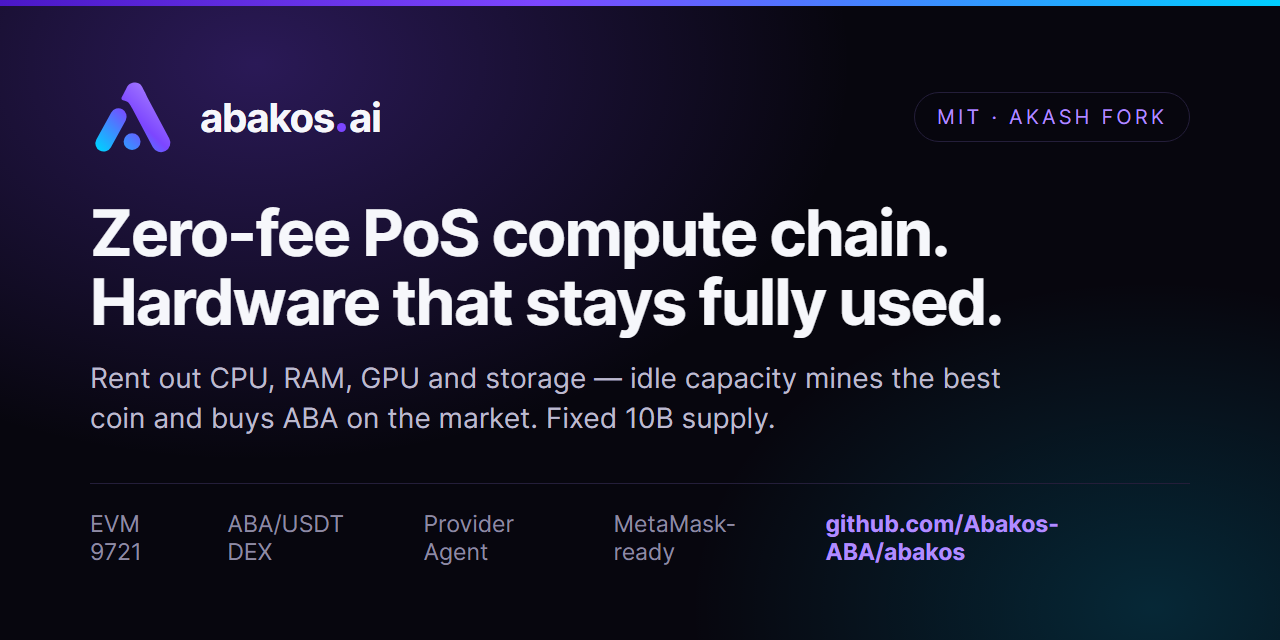
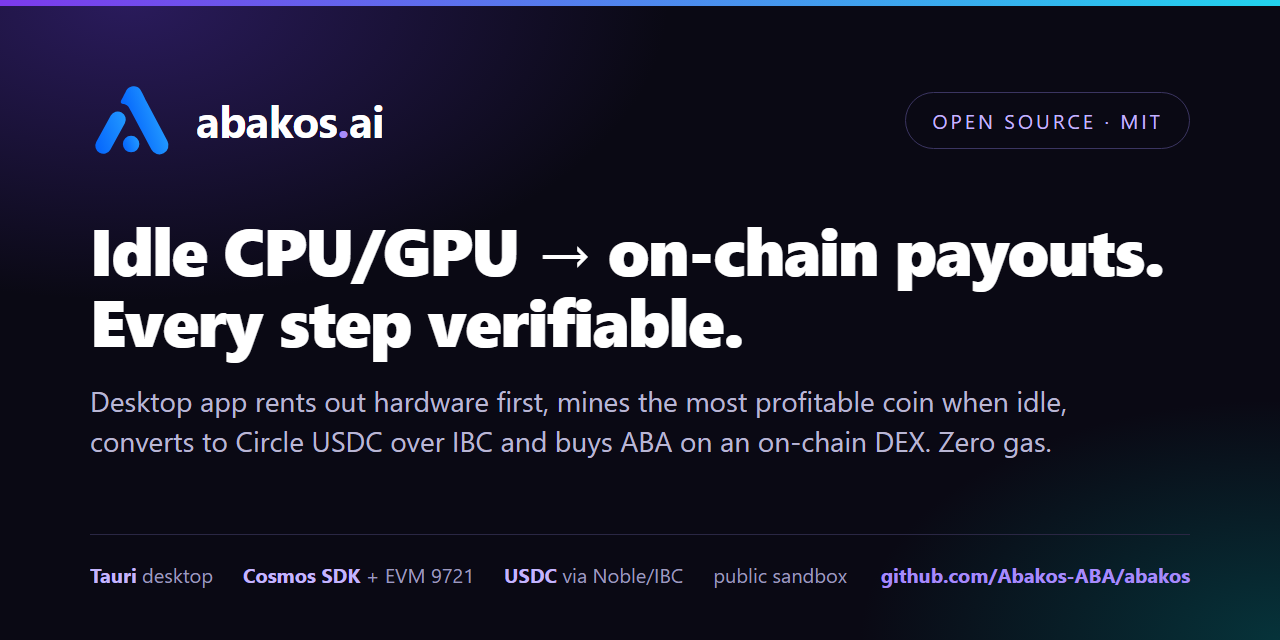
docs: launch polish - roadmap, sandbox notice, v0.1.29 checksums, new social preview, contributing tests

diff --git a/README.md b/README.md
@@ -8,9 +8,12 @@
 [![License](https://img.shields.io/github/license/Abakos-ABA/abakos?color=blue)](LICENSE)
 [![Stars](https://img.shields.io/github/stars/Abakos-ABA/abakos?style=social)](https://github.com/Abakos-ABA/abakos/stargazers)
 
-![Abakos — zero-fee PoS compute chain. Rent out CPU, RAM, GPU and storage; idle capacity mines the best coin and buys ABA on the market.](docs/img/social-preview.png)
+![Abakos — idle CPU/GPU to on-chain payouts. Desktop app rents out hardware first, mines the most profitable coin when idle, converts to Circle USDC over IBC and buys ABA on an on-chain DEX.](docs/img/social-preview.png)
 
-**Abakos turns idle hardware into income.** The desktop app mines the **most profitable coin** on your idle **CPU (Monero/RandomX)** and **GPU** — profit-switching like NiceHash — converts the proceeds into **real Circle USDC** and **buys ABA on the on-chain DEX**, paid straight to your wallet by verified shares. Underneath runs a **zero-fee, EVM-compatible Proof-of-Stake blockchain** for decentralized compute (**DePIN**), forked from the proven [Akash](https://akash.network) stack (Cosmos SDK + CometBFT).
+**Abakos puts idle hardware to work.** The desktop app mines the **most profitable coin** on your idle **CPU (Monero/RandomX)** and **GPU** — profit-switching like NiceHash — converts the proceeds into **real Circle USDC** and **buys ABA on the on-chain DEX**, paid straight to your wallet by verified shares. Underneath runs a **zero-fee, EVM-compatible Proof-of-Stake blockchain** for decentralized compute (**DePIN**), forked from the proven [Akash](https://akash.network) stack (Cosmos SDK + CometBFT).
+
+> [!WARNING]
+> **Public sandbox — experimental.** Payouts, swaps and USDC on the sandbox are real, but the network is pre-audit and pre-mainnet. **Only use amounts you can afford to lose.** No airdrop, no yield promise — mining on an ordinary PC earns small amounts.
 
 > **Name** from the Greek *ábax / abakos* (abacus, the oldest computing device). **Ticker `ABA`.** Live at **[abakos.ai](https://abakos.ai)**. *Hardware that stays fully used.*
 
@@ -30,15 +33,25 @@ If Abakos is useful or interesting to you, **[⭐ star this repo](https://github
 
 - **Open source, top to bottom.** The app, the payout engine and the chain live in this repo. The total protocol cut is **12% (88% goes to you)** — hardcoded in the [payout engine](provider-agent/agent.py) and documented in the [fee model](docs/fee-model.md). You are paid in **ABA**; mined value is converted to real USDC and buys ABA on the public on-chain DEX first (every buyback is visible in the [explorer](https://abakos.ai/explorer/)).
 - **Signed auto-updates.** Updates are cryptographically signed (Tauri updater / minisign); the app only installs updates that match the embedded public key.
-- **SHA-256 checksums — v0.1.24:**
+- **SHA-256 checksums — v0.1.29** (GitHub also shows the digest next to every asset on the [release page](https://github.com/Abakos-ABA/abakos/releases/tag/v0.1.29)):
 
   ```
-  593205f57d6357a822a294054727339fc04ab1910231a8fe5287623261e1e540  Abakos.Provider_0.1.24_x64-setup.exe
-  1d27737a9563f3860e6e4e0dd84557542343c99052dee7663fb3cfe0ccfca111  Abakos.Provider_0.1.24_x64_en-US.msi
+  7da73e08b562c7bb0e2fcd973dc367a17dccc1526d14be751d5c846a45e1b0c2  Abakos.Provider_0.1.29_x64-setup.exe
+  421f92bd2c4fcb023505f9e2ffe268393d221cfe34d5d21de170bf5945c3fada  Abakos.Provider_0.1.29_x64_en-US.msi
+  0bd003ec665f81898324f494b9cf2c5b68d51801b482c903ea154cd97b6bb084  Abakos.Provider_0.1.29_amd64.AppImage
+  b75109f81fd33aaae499b2f5a64c4c680263bbb1fa20a8e4c7eac7d30d84683d  Abakos.Provider_0.1.29_amd64.deb
+  9afba3ade1efe55569dcef861c2e6c0d92de1ea5a593c5601d3e84102c89908b  Abakos.Provider-0.1.29-1.x86_64.rpm
   ```
 
-  Verify on Windows: `certutil -hashfile Abakos.Provider_0.1.24_x64-setup.exe SHA256`. Full verification guide, signing status and reporting: **[abakos.ai/security](https://abakos.ai/security/)**.
+  Verify on Windows: `certutil -hashfile Abakos.Provider_0.1.29_x64-setup.exe SHA256` · Linux: `sha256sum Abakos.Provider_0.1.29_amd64.AppImage`. Full verification guide, signing status and reporting: **[abakos.ai/security](https://abakos.ai/security/)**. Windows code signing is not in place yet, so SmartScreen may show "unknown publisher".
 - **Why do some antivirus tools flag mining apps?** The app bundles the stock miners (XMRig / SRBMiner family), which many AV engines generically flag as *"PUA / Coinminer"* — that heuristic hits every mining tool, including the most established ones (XMRig, SRBMiner, lolMiner). No code signature removes it; it is inherent to bundling a miner. The miner code is open, mining only runs when you start it, and 88% of the mined value is paid to you. If your AV blocks the install, allow-list the install folder. Only ever download Abakos from this repository or [abakos.ai/download](https://abakos.ai/download/).
+
+## What's new (September 2026)
+
+- **Console deployments signed with MetaMask work again.** The validator build had lost our cosmos-sdk fork's EIP-191 `personal_sign` fallback; fixed and now guarded by regression tests that replay a real console transaction byte-for-byte, plus an end-to-end sandbox suite (cert → deployment → bid → lease → manifest → close). Details in the [release notes](https://github.com/Abakos-ABA/abakos/releases).
+- Services without exposed ports no longer break the amino sign doc (empty `endpoints` are omitted).
+- `abakosd version` now reports the running build (`sandbox-20260923-eip191`).
+- Where this is heading: **[ROADMAP.md](ROADMAP.md)** · want to help? **[good first issues](https://github.com/Abakos-ABA/abakos/labels/good%20first%20issue)**
 
 ## How the payout pipeline works (all of it is live)
 
@@ -130,6 +143,8 @@ abakos/
   pool-proxy/     # Stratum proxy: per-address share attribution (unMineable multi-pool)
   bridge-relayer/ # Mining payout forwarder (Skip/CCTP/IBC) + Noble forwarding accounts
   desktop/        # Abakos Provider desktop app (Tauri): wallet + miner + live stats
+  discord-bot/    # community bot: wallet link, roles, live stats, leaderboard
+  provider-compute/ # scripts + systemd units to run a compute provider on vanilla Linux
   site/           # built site mirror (source of truth: abakos.ai repo)
   docs/           # litepaper + whitepaper + fee-model (canonical)
   legacy/         # ARCHIVED research, not the product
@@ -158,6 +173,9 @@ No. All 10,000,000,000 ABA exist at genesis; none are ever minted. Stakers are p
 **Can I use MetaMask or Keplr?**
 Both. Native Ethereum JSON-RPC at `evm-rpc.abakos.ai`, EIP-155 chain id **9721**; the DEX supports any EVM wallet via EIP-6963, Keplr/Leap/Cosmostation work on the Cosmos side.
 
+**Is this a way to make money?**
+Treat it as an experiment, not income. On an ordinary CPU the mined amounts are small, the sandbox is pre-audit, and ABA carries no guarantees. There is no airdrop and no reward for stars, upvotes or follows.
+
 **Is this mainnet?**
 Not yet. The public **sandbox** is live with real value rails but no guarantees. Mainnet follows after a security audit and external validator onboarding — canonical status: [status.abakos.ai](https://status.abakos.ai/).
 
@@ -173,6 +191,7 @@ The sandbox intentionally runs **real value rails** as a proving ground. Found s
 
 - ⭐ **[Star this repo](https://github.com/Abakos-ABA/abakos/stargazers)** — the single strongest signal that makes Abakos discoverable.
 - 🌐 Website: [abakos.ai](https://abakos.ai)
+- 🗺 [Roadmap](ROADMAP.md) · 🤝 [Contributing](CONTRIBUTING.md) · 🟢 [Good first issues](https://github.com/Abakos-ABA/abakos/labels/good%20first%20issue)
 - 💬 Discord: [discord.gg/zBxNvdMjtM](https://discord.gg/zBxNvdMjtM) · [GitHub Discussions](https://github.com/Abakos-ABA/abakos/discussions)
 - 🐦 Updates: [@Abakos_ai on X](https://x.com/Abakos_ai)
 

diff --git a/CONTRIBUTING.md b/CONTRIBUTING.md
@@ -10,6 +10,8 @@ desktop miner app — there is plenty of surface to help on.
 | Report a bug | [Open an issue](https://github.com/Abakos-ABA/abakos/issues/new/choose) (templates provided) |
 | Report a security issue | **[SECURITY.md](SECURITY.md)** — please do not open a public issue |
 | Discuss ideas | [GitHub Discussions](https://github.com/Abakos-ABA/abakos/discussions) or [Discord](https://discord.gg/zBxNvdMjtM) |
+| Find a first task | [Good first issues](https://github.com/Abakos-ABA/abakos/labels/good%20first%20issue) · [help wanted](https://github.com/Abakos-ABA/abakos/labels/help%20wanted) |
+| See where it's heading | [ROADMAP.md](ROADMAP.md) |
 | Understand the design | [`docs/litepaper.md`](docs/litepaper.md) · [`docs/whitepaper.md`](docs/whitepaper.md) · [`docs/fee-model.md`](docs/fee-model.md) |
 
 ## Building
@@ -23,12 +25,29 @@ desktop miner app — there is plenty of surface to help on.
 
 The public sandbox is free to use for testing — transactions cost 0 gas.
 
+## Running the tests
+
+- **Signing regression tests (chain, Linux):**
+  `cd chain && go test ./cmd/akash/cmd/ -run 'TestNodeAccepts|TestEthAccount|TestCosmosAccount'`
+  and `go test github.com/cosmos/cosmos-sdk/x/auth/signing -run EthPersonal` (run via the chain module).
+- **Amino sign doc (chain-sdk):** `cd chain-sdk/go && go test ./sdkutil/ -run Amino`
+- **Desktop:** `cd desktop && npm run build` (type check + bundle).
+
+Please run the tests that touch your change and mention the result in the PR.
+
 ## Pull requests
 
 - Keep PRs focused; describe the *why*, not just the *what*.
 - Match the surrounding code style; no drive-by reformatting.
 - Anything touching payout splits, the escrow fee, DEX contracts or the bridge path must
   reference [`docs/fee-model.md`](docs/fee-model.md) — code and docs stay in lockstep.
+
+## Ground rules
+
+- Be kind and concrete. Criticism of the design is welcome — open an issue or a discussion.
+- We never reward stars, upvotes or follows (no tokens, roles or giveaways) — that would violate
+  GitHub's Acceptable Use Policies.
+- The public sandbox is experimental: never ask users to deposit real funds in docs or examples.
 
 ## License
 

diff --git a/ROADMAP.md b/ROADMAP.md
@@ -1,0 +1,43 @@
+# Roadmap
+
+Phase numbers match [status.abakos.ai](https://status.abakos.ai) and the [litepaper](docs/litepaper.md).
+This is a plan, not a promise — dates move when security or correctness needs it.
+
+## Phase 1 — Public sandbox (live)
+
+- [x] PoS chain (Cosmos SDK + CometBFT) with native EVM, chain id 9721, zero gas
+- [x] Web wallet, explorer, ABA/USDC DEX (Uniswap-v2 fork) with in-app USDC bridge (Skip → CCTP → Noble → IBC)
+- [x] Abakos Provider desktop app (Tauri, Windows + Linux), signed auto-updates
+- [x] Provider Agent: rent-first scheduler, profit-switch idle mining, on-chain 88/4/4/4 payouts
+- [x] Live IBC channel to Noble (canonical Circle USDC)
+
+## Phase 2 — Console + compute marketplace (in progress)
+
+- [x] MetaMask-signed Console deployments (EIP-191 fallback, regression tests, end-to-end sandbox suite)
+- [ ] Console templates, bundles and add-ons with ABA escrow (3% marketplace fee)
+- [ ] Persistent storage and IP leases for deployments
+- [ ] Provider onboarding on vanilla Linux without special commands (`provider-compute/`)
+- [ ] Manage compute providers from a main account via `authz`
+
+## Trust & distribution
+
+- [ ] Windows code signing (SmartScreen "unknown publisher")
+- [ ] macOS build
+- [ ] Listing in `cosmos/chain-registry` ([PR #7854](https://github.com/cosmos/chain-registry/pull/7854))
+- [ ] Reproducible release checksums published with every release (started with v0.1.29)
+
+## Phase 3 / 4 — Developer API and Abakos Chat (planned)
+
+- [ ] OpenAI-compatible developer API (batch first, then streaming)
+- [ ] Abakos Chat on open models, same 88/12 revenue split
+
+## Launch — mainnet (after audit)
+
+- [ ] External security audit
+- [ ] External validator onboarding
+- [ ] Liquidity seeding and mainnet genesis
+
+Want to help with any of these? See [CONTRIBUTING.md](CONTRIBUTING.md) and the
+[good first issues](https://github.com/Abakos-ABA/abakos/labels/good%20first%20issue).
+
+*The sandbox is experimental. Only use amounts you can afford to lose.*
